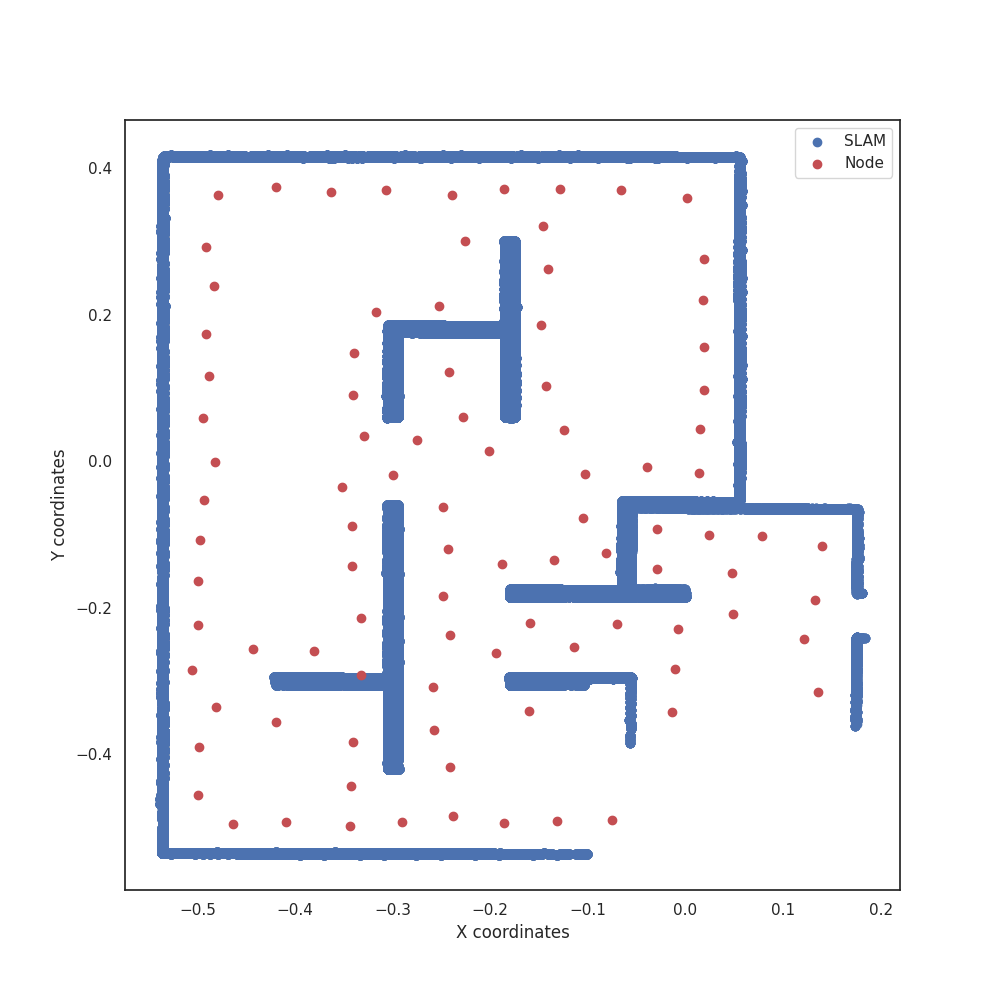
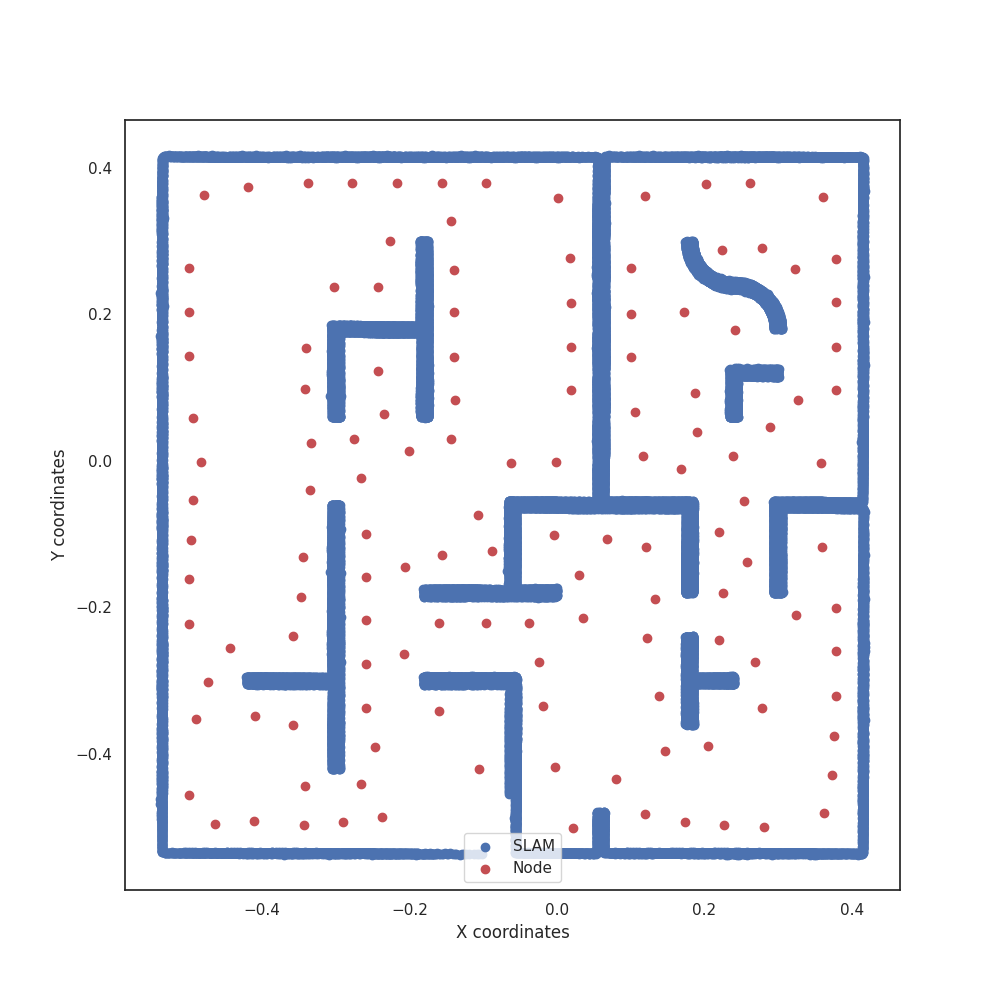
Resolvi o mal funcionamento do código. Agora está totalmente funcionando e optimizado o SLAM + GET_NODE, Só falta navegacao

diff --git a/src/slam_navigation.py b/src/slam_navigation.py
@@ -8,50 +8,70 @@ contador = 0
 def slam_snapshot(gps_position: list, side_angle_to_distance_mapper: dict[float, float], robot_orientation: float) -> None:
     slam.take_snapshot(gps_position, side_angle_to_distance_mapper, robot_orientation)
 
+def get_slam_list_atual() -> list:
+    return slam.get_list_atual()
+
 def get_slam_list() -> list:
     return slam.get_list()
 
-def get_node(listx: list, listy: list, robot_position: list, existing_nodes: set) -> tuple[list, list]:
-    nodeX, nodeY = [], []
-    x0, y0 = robot_position
-    radius_offset = ROBOT_RADIUS + THRESHOLD_SLAM
-
-    for lx, ly in zip(listx, listy):
-        theta = np.arctan2(y0 - ly, lx - x0)
-        px = lx - radius_offset * np.cos(theta)
-        py = ly + radius_offset * np.sin(theta)
+def calculate_min_node(nodeX: list, nodeY: list, robot_position: list) -> list:
+    # Utilizando a lista de nodes, calcula o node mais próximo do robo
+    distance = float("inf")
+    for nx, ny in zip(nodeX, nodeY):
+        if (nx - robot_position[0]) ** 2 + (ny - robot_position[1]) ** 2 < distance:
+            distance = (nx - robot_position[0]) ** 2 + (ny - robot_position[1]) ** 2
+            min_node = [nx, ny]
+    return min_node
         
-        # Adiciona somente se não estiver muito próximo de outro node e não sobreponha pontos existentes
-        if all((px - nx) ** 2 + (py - ny) ** 2 > radius_offset ** 2 for nx, ny in existing_nodes) and all((px - wx) ** 2 + (py - wy) ** 2 > ROBOT_RADIUS ** 2 for wx, wy in zip(listx, listy)):
-            existing_nodes.add((px, py))
-            nodeX.append(px)
-            nodeY.append(py)
+
+            
     
-    return nodeX, nodeY
 
 class Navigation:
     def __init__(self) -> None:
-        self.list_x_antigo = []
-        self.list_y_antigo = []
-        self.node_X = []
-        self.node_Y = []
+        self.list_x_total = []
+        self.list_y_total = []
+
         self.existing_nodes = set()
+    
+    def get_node(self, listx: list, listy: list, robot_position: list, ) -> None:
+        x0, y0 = robot_position
+        radius_offset = ROBOT_RADIUS + THRESHOLD_SLAM
+        contador2 =0
+        for lx, ly in zip(listx, listy):
+            
+            theta = np.arctan2(y0 - ly, lx - x0)
+            px = lx - radius_offset * np.cos(theta)
+            py = ly + radius_offset * np.sin(theta)
+            
+            contador2+=1
+            # Adiciona somente se não estiver muito próximo de outro node e não sobreponha pontos existentes
+            if all(
+                (px - nx) ** 2 + (py - ny) ** 2 > radius_offset ** 2 for nx, ny in self.existing_nodes
+            ) and all(
+                (px - wx) ** 2 + (py - wy) ** 2 > ROBOT_RADIUS ** 2 for wx, wy in zip(listx, listy)
+            ):
+                self.existing_nodes.add((px, py))
+        print(f"Contador2 : {contador2}")
 
     def navigate(self, gps_position: list, side_angle_to_distance_mapper: dict[float, float], robot_orientation: float) -> None:
         global contador
         slam_snapshot(gps_position, side_angle_to_distance_mapper, robot_orientation)
-        new_x, new_y = get_slam_list()
+        new_x, new_y = get_slam_list_atual()
+
+        self.get_node(new_x, new_y, gps_position)
+        self.list_x_total.extend(new_x)
+        self.list_y_total.extend(new_y)
         
-        if new_x and new_y:
-            nodeX, nodeY = get_node(new_x, new_y, gps_position, self.existing_nodes)
-            self.node_X.extend(nodeX)
-            self.node_Y.extend(nodeY)
-            self.list_x_antigo.extend(new_x)
-            self.list_y_antigo.extend(new_y)
-        
+
         if contador % 25 == 0:
-            fig.multi_plott(self.list_x_antigo, self.list_y_antigo, "SLAM", 'b', self.node_X, self.node_Y, "Node", 'r')
+            #Quero que plote os node_x e node_y 
+            print(f"LIST_X : {len(self.list_x_total)}, LIST_Y : {len(self.list_y_total)}, EXISTING_NODES : {len(self.existing_nodes)}") 
+            fig.multi_plott(self.list_x_total, self.list_y_total, "SLAM", 'b', [node[0] for node in self.existing_nodes], [node[1] for node in self.existing_nodes], "Node", 'r')
+            pass
+
         
+
         contador += 1
 
 navigation = Navigation()

diff --git a/src/robot.py b/src/robot.py
@@ -419,10 +419,8 @@ class Robot:
                         System.motor_rotation,
                     )
 
-                print("\n\n\n\n")
-                print(
-                    f"Girou a mais {(angle_accumulated_delta - turn_angle)/DEGREE_IN_RAD}"
-                )
+                #print("\n\n\n\n")
+                #print(f"Girou a mais {(angle_accumulated_delta - turn_angle)/DEGREE_IN_RAD}")
                 if angle_accumulated_delta - turn_angle >= 0.1:  # changed
                     self.rotate(
                         "left" if direction == "right" else "right",
@@ -430,9 +428,7 @@ class Robot:
                         correction_rotation=True,
                         slow_down_angle=angle_accumulated_delta - turn_angle + 1,
                     )
-                    print(
-                        f"Girou demais, voltou {self.expected_angle=} e {self.imu.get_rotation_angle()}"
-                    )
+                    #print(f"Girou demais, voltou {self.expected_angle=} e {self.imu.get_rotation_angle()}")
 
                 break
         self.rotating -= 1
@@ -568,11 +564,9 @@ class Robot:
         found_hole_type = None
         blocking = False
 
-        print(f"  Movendo {dist=} em {direction}")
-        print(
-            f"  - {returning_to_safe_position=} {correction_move=} {just_move=} {dfs_move=}"
-        )
-        print(f"  {initial_position=}; {self.expected_position=}")
+        #print(f"  Movendo {dist=} em {direction}")
+        #print(f"  - {returning_to_safe_position=} {correction_move=} {just_move=} {dfs_move=}")
+        #print(f"  {initial_position=}; {self.expected_position=}")
 
         while self.step() != -1:
             actual_position = self.gps.get_position()
@@ -701,8 +695,8 @@ class Robot:
             y_delta = round_if_almost_0(abs(actual_position.y - initial_position.y))
             traversed_dist = x_delta + y_delta
 
-            print(f"    andou {traversed_dist}. {x_traversed},{y_traversed}.")
-            print(f"    {actual_position=}")
+            #print(f"    andou {traversed_dist}. {x_traversed},{y_traversed}.")
+            #print(f"    {actual_position=}")
 
             if (
                 (x_traversed and y_traversed)

diff --git a/src/slam.py b/src/slam.py
@@ -8,8 +8,10 @@ start_angle = 0
 class Slam: 
 
     def __init__(self) -> None:
-        self.list_x = []
-        self.list_y = []
+        self.list_x_total = []
+        self.list_y_total = []
+        self.list_x_atual = []
+        self.list_y_atual = []
         pass
         
     def take_snapshot(self, gps_position: list, side_angle_to_distance_mapper: dict[float, float], robot_orientation : float) -> None:
@@ -17,6 +19,9 @@ class Slam:
         y0 = gps_position[1]
 
         orientation = robot_orientation
+
+        self.list_x_atual = []
+        self.list_y_atual = []
 
         
         for side_angle, distance in side_angle_to_distance_mapper.items():
@@ -27,18 +32,21 @@ class Slam:
 
                 distance_x = distance*np.cos(corrected_angle) + x0
                 distance_y = distance*np.sin(corrected_angle) +  y0
-                self.list_x.append(distance_x)
-                self.list_y.append(distance_y)
+                self.list_x_total.append(distance_x)
+                self.list_y_total.append(distance_y)
+                self.list_x_atual.append(distance_x)
+                self.list_y_atual.append(distance_y)
         #fig.plott(self.list_x, self.list_y, "SLAM", 'b') # Comment This when running in competition
     
-    def get_list(self) -> list:
-        return self.list_x, self.list_y
+    def get_list_total(self) -> list:
+        return self.list_x_total, self.list_y_total
         ''' 
         for side_angle, distance in side_angle_to_distance_mapper.items():
             print(f"side angle {side_angle} : {distance} ")
         time.sleep(5)
         '''
         
-        
+    def get_list_atual(self) -> list:
+        return self.list_x_atual, self.list_y_atual
 
 slam = Slam()

diff --git a/auxiliar_codes/tests/Test_Camera.py b/auxiliar_codes/tests/Test_Camera.py
@@ -135,7 +135,7 @@ def seguir_parede():
 
     # Se não há parede à esquerda, vire à esquerda e mova-se para frente
     if not parede_esquerda(sensoresEsquerda):
-        print(f'esquerda livre, {sensoresEsquerda[1].getValue()}')
+        #print(f'esquerda livre, {sensoresEsquerda[1].getValue()}')
         encoder_antes()
         virar_esquerda()
         encoder_antes()
@@ -143,13 +143,13 @@ def seguir_parede():
 
     # Se há parede à esquerda, mas não à frente, mova-se para frente
     elif parede_esquerda(sensoresEsquerda) and not parede_frente(sensoresFrente):
-        print('esquerda ocupada, frente livre')
+        #print('esquerda ocupada, frente livre')
         encoder_antes()
         mover_para_frente(6)
 
     # Se há parede à esquerda e à frente, vire à direita e mova-se para frente
     elif parede_esquerda(sensoresEsquerda) and parede_frente(sensoresFrente) and not parede_direita(sensoresDireita):
-        print('esquerda e frente ocupadas, direita livre')
+        #print('esquerda e frente ocupadas, direita livre')
         encoder_antes()
         virar_direita()
         encoder_antes()
@@ -188,7 +188,7 @@ def tem_preto():
     # Display the result
     cv2.waitKey(0)
     cv2.destroyAllWindows()
-    print(np.any(result))
+    #print(np.any(result))
     return np.any(result)
 
 def tem_amarelo():
@@ -247,7 +247,7 @@ def codificar_tipo(tipo):
     message = struct.pack("j j x", x, y, victimType) # Pack the message.
     delay(1300) # Delay for 1.3 seconds
     emitter.send(message) # Send out the message
-    print("enviou mensagem")
+    #print("enviou mensagem")
 
 def reconhecer_vitima():
     if parede_frente(sensoresFrente):

diff --git a/auxiliar_codes/tests/Test_sensordistance.py b/auxiliar_codes/tests/Test_sensordistance.py
@@ -116,10 +116,10 @@ def mover_para_frente(dist = tamanho_tile):
 
         if tot_delta > dist:
             parar()
-            print(f"A posição X atual é {posicaoX_atual}")
-            print(f"A posição Y atual é {posicaoY_atual}")
-            print(f" O Delta X é {posicaoX_atual- posicaoX_anterior}")
-            print(f" O Delta Y é {posicaoY_atual- posicaoY_anterior}")
+            #print(f"A posição X atual é {posicaoX_atual}")
+            #print(f"A posição Y atual é {posicaoY_atual}")
+            #print(f" O Delta X é {posicaoX_atual- posicaoX_anterior}")
+            #print(f" O Delta Y é {posicaoY_atual- posicaoY_anterior}")
             break
 
 

diff --git a/auxiliar_codes/log_client/data_receiver_augusto.py b/auxiliar_codes/log_client/data_receiver_augusto.py
@@ -10,8 +10,8 @@ PORT = 5555
 LOG_PATH = os.getenv("LOG_PATH", "./.logs/log.txt")
 
 # Defina o diretório de upload
-#UPLOAD_FOLDER = '/home/alunoc/git_projects/LARCv1/SLAM_IMAGES' # PC DO ETAPA
-UPLOAD_FOLDER = r"C:\Users\Pichau\Desktop\LARCV1\SLAM_IMAGES"  #Meu PC
+UPLOAD_FOLDER = '/home/alunoc/git_projects/LARCv1/SLAM_IMAGES' # PC DO ETAPA
+#UPLOAD_FOLDER = r"C:\Users\Pichau\Desktop\LARCV1\SLAM_IMAGES"  #Meu PC
 app.config['UPLOAD_FOLDER'] = UPLOAD_FOLDER
 
 # Certifique-se de que o diretório de upload existe

diff --git a/auxiliar_codes/tests/reconhecimento_lidar.py b/auxiliar_codes/tests/reconhecimento_lidar.py
@@ -265,8 +265,8 @@ def robo_torto(lidar, camera):
         if distance < min_distance:
             min_distance = distance
             min_angle = angle
-    print(min_angle)
-    print(min_distance)
+    #print(min_angle)
+    #print(min_distance)
     if min_angle == 90 or min_angle == 270:
         # robo ta certinho, mantem a margem
         return 0
